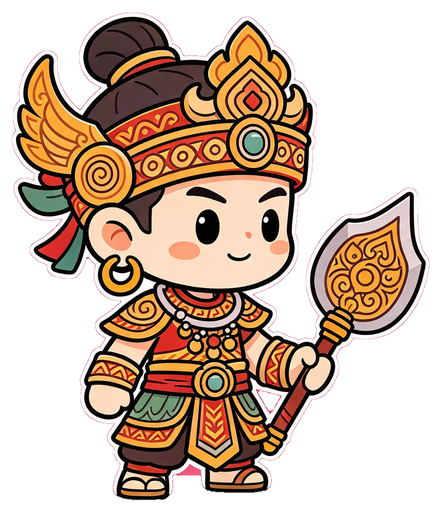
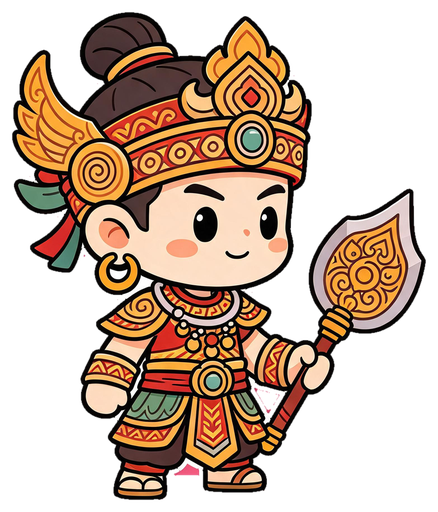
Sửa theo tester: CD_SKIP (ảnh vẽ sai giữ hiển thị cũ), boss cao chuẩn, nhún lấy đà / tung chiêu nhún–bật, vệt đúng phía vũ khí, không cắt ở mép, kinhduong bóc viền trắng
Claude-Session: https://claude.ai/code/session_01UBDPYrUsnZ3fMaqEMhVJ5V

Changed region(s): [[0.0297, 0.0, 0.9795, 0.9688]]

diff --git a/js/tu-cu-dong.js b/js/tu-cu-dong.js
@@ -33,6 +33,12 @@ function cdWeapon(type, attack) {
   return attack === 'arrow' ? 'shot' : attack === 'melee' ? 'slash' : attack ? 'orb' : 'punch';
 }
 
+// ảnh dựng xương VẼ SAI (sai loài / vũ khí rời / lệch phong cách) — chờ gen lại; mã trong đây giữ nguyên cách hiển thị cũ của game
+const CD_SKIP = new Set([
+  'rua', 'phuthuy', 'chimbao', 'nongnoc', 'ran', 'thachtinh', 'dacon', 'linhan', 'cungan', 'voichien', 'camap', 'cua', 'cao',   // quái sai loài (thành rồng con / người có sừng)
+  'hotinh', 'chantinh',                                                                                                        // boss sai loài
+  'nguphu', 'tre', 'dotnuong',                                                                                                 // tướng: tiên cá · vũ khí rời · kiểu 3D bóng
+]);
 // ---- chọn ảnh đơn
 const cdMultiCache = new Map();
 function cdHasMulti(type, enemy) {
@@ -46,6 +52,7 @@ function cdHasMulti(type, enemy) {
 }
 // ảnh đơn của một mã (null = dùng đường vẽ cũ: bộ nhiều khung / ảnh cũ / vector)
 function cdSoloImg(type, enemy) {
+  if (CD_SKIP.has(type)) return null;
   // ảnh dựng xương <mã>.png ở gốc assets/ là ảnh mới vẽ theo docs/PROMPT-DUNG-XUONG.txt → dùng thay bộ cũ;
   // chỉ có packs/<mã>/idle.png thì bộ nhiều khung (nếu có) vẫn ưu tiên
   // bộ nhiều khung thật (PACK_FRAMES / FRAME_ANIMS, tools/cat-sheet.py) vẫn ưu tiên nhất
@@ -100,7 +107,9 @@ function cdPrepare(img) {
   c.naturalWidth = c.width; c.naturalHeight = c.height;
   const fx = Math.min(0.85, Math.max(0.15, (fk * (x1 - x0) / k + (x0 / k - sx)) / sw));
   c.__fk = fx;   // footK() của render.js đọc giá trị này
-  p = { c, ar: c.width / c.height, fx, tint: new Map(), geo: { sx, sy, sw, sh, iw, ih, q: c.width / sw } };
+  // phía cầm vũ khí: chân lệch hẳn sang phải khung bao = phần chìa ra nhiều ở bên TRÁI (vũ khí cầm tay trái) → vệt / đạn vẽ bên trái
+  const wside = fx > 0.58 ? -1 : 1;
+  p = { c, ar: c.width / c.height, fx, wside, tint: new Map(), geo: { sx, sy, sw, sh, iw, ih, q: c.width / sw } };
   cdPrep.set(img, p);
   return p;
 }
@@ -144,25 +153,30 @@ function cdPose(st) {
     const u = 1 - st.swing;
     if (u < 0.3) {                // lấy đà: ngả về sau, nén xuống
       const k = cdOut(u / 0.3);
-      P.dx -= 0.05 * k * big; P.bend -= 0.13 * k; P.sx *= 1 - 0.04 * k; P.sy *= 1 + 0.05 * k; P.rot -= 0.04 * k;
+      // nhún lấy đà (~0,1 giây): ngả ra sau, nén thấp xuống, phình ngang
+      P.dx -= 0.05 * k * big; P.bend -= 0.14 * k; P.sx *= 1 + 0.05 * k; P.sy *= 1 - 0.09 * k; P.rot -= 0.05 * k;
       P.phase = 'wind'; P.k = k;
     } else if (u < 0.46) {        // lao tới + uốn phần trên theo hướng đánh, giãn ngang
       const k = cdOut((u - 0.3) / 0.16);
-      P.dx += (-0.05 + 0.11 * k) * big; P.bend += -0.13 + (0.13 + 0.24 * big) * k; P.sx *= 1 + 0.08 * k * big; P.sy *= 1 - 0.06 * k * big;
-      P.rot += (-0.04 + 0.1 * k) * big;
+      P.dx += (-0.05 + 0.15 * k) * big; P.bend += -0.14 + (0.14 + 0.32 * big) * k; P.sx *= 1 + 0.05 * (1 - k) + 0.06 * k * big; P.sy *= 1 - 0.09 * (1 - k) + 0.05 * k;
+      P.rot += (-0.05 + 0.13 * k) * big;
       if (!st.melee) P.dx -= 0.05 * k;   // đánh xa: giật lùi khi bắn
       P.phase = 'strike'; P.k = k;
     } else {                      // bật về (vượt nhẹ rồi đứng yên)
       const k = cdBack((u - 0.46) / 0.54);
       const r = 1 - k;
-      P.dx += (0.06 * big - (st.melee ? 0 : 0.05)) * r; P.bend += 0.24 * big * r; P.sx *= 1 + 0.08 * big * r; P.sy *= 1 - 0.06 * big * r; P.rot += 0.06 * big * r;
+      P.dx += (0.1 * big - (st.melee ? 0 : 0.05)) * r; P.bend += 0.32 * big * r; P.sx *= 1 + 0.06 * big * r; P.sy *= 1 + 0.05 * r; P.rot += 0.08 * big * r;
       P.phase = 'recover'; P.k = Math.min(1, Math.max(0, (u - 0.46) / 0.54));
     }
   }
-  if (st.castT > 0) {             // tung chiêu: nhún lên, phóng to nhẹ, phát sáng viền
-    const k = cdInOut(Math.min(1, st.castT / 0.3));
-    P.dy -= 0.07 * k; P.sx *= 1 + (st.castUlt ? 0.12 : 0.06) * k; P.sy *= 1 + (st.castUlt ? 0.14 : 0.08) * k; P.bend -= 0.05 * k;
-    P.glow = k; if (!P.phase) { P.phase = 'cast'; P.k = k; }
+  if (st.castT > 0) {             // tung chiêu (castT 0,5 → 0; tối thượng 0,9): nhún xuống → bật lên + ngửa thân trên ra sau, phát sáng viền
+    // nhún: 0,5 → 0,38 hạ dần xuống (tối thượng: giữ thế nhún tới 0,3) · bật: từ 0,3 về 0 bung lên rồi hạ dần
+    const crouch = st.castT > 0.3 ? cdOut(Math.min(1, (0.5 - Math.min(0.5, st.castT)) / 0.12 + (st.castT > 0.5 ? 1 : 0))) : 0;
+    const k = st.castT <= 0.3 ? cdInOut(st.castT / 0.3) : 0;
+    P.sy *= 1 - 0.1 * crouch + (st.castUlt ? 0.13 : 0.09) * k; P.sx *= 1 + 0.05 * crouch + (st.castUlt ? 0.08 : 0.04) * k;
+    P.dy -= 0.08 * k; P.bend -= 0.04 * crouch + 0.12 * k;
+    P.glow = Math.max(0.35, k); P.cast = { crouch, k };
+    if (!P.phase) { P.phase = 'cast'; P.k = k; }
   }
   if (st.hurt > 0) {              // trúng đòn: chớp + giật lùi + rung
     const k = Math.min(1, st.hurt / 0.2);
@@ -297,6 +311,12 @@ function cdFx(ctx, kind, P, H, col, t, seed, fr) {
     if (tex) fxImage(ctx, 'spark_01', col, sx, sy, 0.16 * H, seed, 1, (1 - q) * 0.8);
   }
   ctx.restore();
+}
+// vệt / đạn ở đúng phía tay cầm vũ khí (ảnh không tách được tay): bên trái thì lật ngang
+function cdFxSide(ctx, p, kind, P, H, col, t, seed) {
+  const w = H * p.ar;
+  if (p.wside < 0) { ctx.save(); ctx.scale(-1, 1); cdFx(ctx, kind, P, H, col, t, seed, p.fx * w); ctx.restore(); }
+  else cdFx(ctx, kind, P, H, col, t, seed, (1 - p.fx) * w);
 }
 // bụi chân khi đi: 2 cụm khói nhỏ sau gót, theo nhịp bước (không cần trạng thái)
 function cdDust(ctx, H, t, rate, seed) {
@@ -500,7 +520,7 @@ function cdArmTip(R, st, kind, bend, sy) {
   const c = Math.cos(ang), s = Math.sin(ang);
   return { pv, ang, d: A.d, tip: [pv[0] + (vx * k) * c - (vy * k) * s, pv[1] + (vx * k) * s + (vy * k) * c] };
 }
-const cdRigBend = (P) => (P.bend + P.dx + P.rot * 0.9) * 0.6;
+const cdRigBend = (P) => (P.bend + P.dx + P.rot * 0.9) * 0.75;
 const cdTintC = (c, color) => { const m = c.__tint || (c.__tint = new Map()); let t = m.get(color); if (!t) { t = document.createElement('canvas'); t.width = c.width; t.height = c.height; const x = t.getContext('2d'); x.drawImage(c, 0, 0); x.globalCompositeOperation = 'source-atop'; x.fillStyle = color; x.fillRect(0, 0, t.width, t.height); t.naturalWidth = t.width; t.naturalHeight = t.height; m.set(color, t); } return t; };
 // vẽ thân trên theo lát ngang: lát dưới hông giữ nguyên, càng lên cao càng lệch (cong mềm, không gãy ở hông)
 function cdDrawUpper(ctx, R, img, bend, sy) {
@@ -632,6 +652,17 @@ function cdDrawHero(ctx, h, x, y, o, s, look, def, img, tierShown, ascShown) {
   ctx.save();
   ctx.globalAlpha *= (o.alpha ?? 1) * P.alpha;
   ctx.translate(x, y);
+  {
+    // ô sát mép bản đồ + ảnh mới rộng (vũ khí chìa ngang): đẩy hình vào trong để không bị cắt nửa người ở mép màn hình
+    const tr = ctx.getTransform(), kx = Math.abs(tr.a), w = H * p.ar * s;
+    if (kx > 0 && ctx.canvas && ctx.canvas.width) {
+      const L = (dir > 0 ? p.fx : 1 - p.fx) * w * kx, Rr = (dir > 0 ? 1 - p.fx : p.fx) * w * kx, pad = 3;
+      let dx = 0;
+      if (tr.e - L < pad) dx = (pad - (tr.e - L)) / kx;
+      else if (tr.e + Rr > ctx.canvas.width - pad) dx = (ctx.canvas.width - pad - (tr.e + Rr)) / kx;
+      if (dx) ctx.translate(dx, 0);
+    }
+  }
   if (!o.noShadow) {
     // bóng co lại khi nhún lên / nhảy
     const up = Math.min(1, Math.max(0, -((R ? P.hop || 0 : P.dy) * H + lift) / 40));
@@ -664,7 +695,7 @@ function cdDrawHero(ctx, h, x, y, o, s, look, def, img, tierShown, ascShown) {
     ctx.restore();
     if (!dying) drawPackFront(ctx, h, def, t, H, ascShown);
     // không tách được tay: vệt chém / đạn / quả cầu vẽ theo vị trí tay ước lượng như khi cử động nguyên khối
-    if (!R.arm && !dying && !CD.noFx) cdFx(ctx, kind, P, H, look.attrColor || '#FFF1C4', t, seed, (1 - p.fx) * H * p.ar);
+    if (!R.arm && !dying && !CD.noFx) cdFxSide(ctx, p, kind, P, H, look.attrColor || '#FFF1C4', t, seed);
     ctx.restore();
     if (o.bog) drawBogWater(ctx, x, y, s, t);
     return { top: y - (H + 12 - lift) * s * Math.max(1, P.sy), s };
@@ -687,7 +718,7 @@ function cdDrawHero(ctx, h, x, y, o, s, look, def, img, tierShown, ascShown) {
   }
   ctx.restore();
   if (!dying) drawPackFront(ctx, h, def, t, H, ascShown);
-  if (!dying) cdFx(ctx, kind, P, H, look.attrColor || '#FFF1C4', t, seed, (1 - p.fx) * H * p.ar);
+  if (!dying) cdFxSide(ctx, p, kind, P, H, look.attrColor || '#FFF1C4', t, seed);
   ctx.restore();
   if (o.bog) drawBogWater(ctx, x, y, s, t);
   return { top: y - (H + 12 - lift) * s * Math.max(1, P.sy), s };
@@ -695,7 +726,9 @@ function cdDrawHero(ctx, h, x, y, o, s, look, def, img, tierShown, ascShown) {
 
 // ---- QUÁI / BOSS (gọi từ drawEnemy; ctx đã dịch tới chân, lật theo hướng, rung khi trúng đòn)
 function cdEnemySize(e, box, p) {
-  const hgt = box.w * Math.min(1.7, Math.max(0.6, 1 / p.ar)) * (e.def.boss ? 1.05 : 1);
+  let hgt = box.w * Math.min(1.7, Math.max(0.6, 1 / p.ar));
+  // boss: cao chuẩn 100–125 (≈ cỡ ảnh boss cũ, gấp ~2 quái thường) — boss thiếu ENEMY_W (rộng mặc định 40) không còn bé như quái thường
+  if (e.def.boss) hgt = Math.min(125, Math.max(100, hgt)) * (box.k || 1);
   return { H: hgt, W: hgt * p.ar };
 }
 function cdDrawEnemy(ctx, e, t, box, img, o) {
@@ -737,7 +770,7 @@ function cdDrawEnemy(ctx, e, t, box, img, o) {
   if (!o.icon && P.phase) {
     const el = e.el && typeof ELEMENTS !== 'undefined' && ELEMENTS[e.el];
     ctx.save(); ctx.translate(0, fly);
-    cdFx(ctx, cdWeapon(e.type, d.ranged ? 'arrow' : 'melee'), P, H, (el && el.color) || '#FFB04A', t, seed, (1 - p.fx) * H * p.ar);
+    cdFxSide(ctx, p, cdWeapon(e.type, d.ranged ? 'arrow' : 'melee'), P, H, (el && el.color) || '#FFB04A', t, seed);
     ctx.restore();
   }
   return true;

diff --git a/tests/tu-cu-dong/tu-cu-dong.test.js b/tests/tu-cu-dong/tu-cu-dong.test.js
@@ -9,7 +9,7 @@ const SHOTS = path.join(__dirname, 'shots');
 fs.mkdirSync(SHOTS, { recursive: true });
 const sleep = (ms) => new Promise((r) => setTimeout(r, ms));
 const SIZES = [[1920, 934], [844, 390], [667, 375]];
-const MA = 'lactuong,xathu,thosan,thaymo,lucsi,kinhduong,kybinh,cao,anvuong';
+const MA = 'lactuong,xathu,thosan,thaymo,lucsi,kinhduong,kybinh,echme,anvuong';
 
 async function open(browser, w, h, q = '') {
   const ctx = await browser.newContext({ viewport: { width: w, height: h } });
@@ -60,6 +60,26 @@ async function main() {
     ok(s.path[0] === 'ma-moi.png', '<mã>.png ở gốc assets/ được nhận làm ảnh đơn');
     const dx = await page.evaluate(() => ({ adv: hasAsset('adv.png') && hasAsset('packs/adv/strike.png'), solo: hasAsset('adv.png') && !cdHasMulti('adv', false) === false }));
     ok(dx.adv && dx.solo, 'có ảnh dựng xương adv.png thì dùng thay bộ cũ packs/adv (wind / strike)');
+    // tester t6: ảnh vẽ sai → danh sách loại trừ giữ cách hiển thị cũ; boss to; vệt đúng phía vũ khí; không cắt ở mép
+    const t6 = await page.evaluate(async () => {
+      const skip = [...CD_SKIP].filter((k) => hasAsset(k + '.png') && cdSoloImg(k, !HEROES[k]));
+      const load = async (k) => { const im = new Image(); im.src = 'assets/' + k + '.png'; await im.decode(); return cdPrepare(im); };
+      const lac = await load('lactuong'), kd = await load('kinhduong');
+      const boss = cdEnemySize({ def: { boss: true } }, { w: 40 }, await load('haba')).H, boss2 = cdEnemySize({ def: { boss: true } }, { w: 140 }, await load('thuongluong')).H;
+      const quai = cdEnemySize({ def: {} }, { w: 40 }, await load('tom')).H;
+      // tướng ở ô sát mép trái: không vẽ ra ngoài canvas
+      const c = document.createElement('canvas'); c.width = 300; c.height = 300; const x = c.getContext('2d', { willReadFrequently: true });
+      CD.force = true; asset('lactuong.png', true); await new Promise((r) => setTimeout(r, 300));
+      drawHeroSprite(x, { type: 'lactuong', id: 1, tier: 3, equip: {} }, 6, 280, { t: 1, scale: 0.9, noShadow: true });
+      const d = x.getImageData(0, 0, 1, 300).data; let edge = 0; for (let i = 3; i < d.length; i += 4) if (d[i] > 40) edge++;
+      const cast = [0.5, 0.42, 0.32, 0.25, 0.1].map((ct) => +cdPose({ t: 0, seed: 0, castT: ct }).sy.toFixed(3));
+      return { skip, lacSide: lac.wside, kdSide: kd.wside, boss, boss2, quai, edge, cast };
+    });
+    ok(t6.skip.length === 0, 'mã trong CD_SKIP (ảnh vẽ sai, chờ gen lại) không dùng ảnh mới — giữ hiển thị cũ');
+    ok(t6.lacSide === -1 && t6.kdSide === 1, 'phía vũ khí: Lạc Tướng cầm rìu bên trái → vệt bên trái; Kinh Dương Vương bên phải');
+    ok(t6.boss >= 100 && t6.boss2 <= 125 && t6.boss > t6.quai * 1.6, `boss cao ${Math.round(t6.boss)}–${Math.round(t6.boss2)} (quái thường ${Math.round(t6.quai)}) — không bé như quái`);
+    ok(t6.edge === 0, `tướng ở ô sát mép trái không bị vẽ lẹm ra ngoài canvas (${t6.edge} điểm ở cột 0)`);
+    ok(t6.cast[1] < 0.95 && t6.cast[3] > 1.05, `tung chiêu nhún xuống rồi bật lên (cao ${t6.cast.join(' → ')})`);
     await page.close();
   }
 
@@ -122,7 +142,7 @@ async function main() {
   {
     const page = await open(browser, 844, 390);
     // chỉ ảnh dựng xương mới (assets/<mã>.png) + mẫu docs/mau-vung-tay — không dùng ảnh cũ packs/
-    const SAMPLES = [['mau-nv', 'docs/mau-vung-tay/mau-nv.png'], ['kinhduong', 'assets/kinhduong.png'], ['cuoi', 'assets/cuoi.png'], ['xathu', 'assets/xathu.png'],
+    const SAMPLES = [['mau-nv', 'docs/mau-vung-tay/mau-nv.png'], ['potaoapui', 'assets/potaoapui.png'], ['cuoi', 'assets/cuoi.png'], ['xathu', 'assets/xathu.png'],
       ['auco', 'assets/auco.png'], ['sodua', 'assets/sodua.png'], ['giaodong', 'assets/giaodong.png']];
     const res = await page.evaluate(async (SAMPLES) => {
       const out = [], frames = [];

diff --git a/js/xem-cu-dong.js b/js/xem-cu-dong.js
@@ -15,11 +15,11 @@
   const cells = [];
   let id = 1;
   for (const k of Object.keys(HEROES)) {
-    if (!pick(k) || !hasAsset(`${k}.png`)) continue;   // chỉ ảnh dựng xương mới (assets/<mã>.png), không dùng ảnh cũ packs/
+    if (!pick(k) || !hasAsset(`${k}.png`) || CD_SKIP.has(k)) continue;   // chỉ ảnh dựng xương mới (assets/<mã>.png) đạt; mã trong CD_SKIP chờ gen lại
     cells.push({ kind: 'hero', type: k, name: HEROES[k].name, h: { type: k, id: id++, tier: 1, equip: {}, level: 1 } });
   }
   for (const k of Object.keys(ENEMIES)) {
-    if (!pick(k) || !hasAsset(`${k}.png`)) continue;
+    if (!pick(k) || !hasAsset(`${k}.png`) || CD_SKIP.has(k)) continue;
     const d = ENEMIES[k];
     cells.push({ kind: d.boss ? 'boss' : 'enemy', type: k, name: d.name, e: { type: k, id: id++, def: d, x: 0, y: 0, dir: 1, hp: d.hp, maxHp: d.hp, el: d.el || null } });
   }

diff --git a/tools/rig-tay.html b/tools/rig-tay.html
@@ -51,7 +51,7 @@
 const $ = (s) => document.querySelector(s);
 const ed = $('#ed'), pv = $('#pv'), ex = ed.getContext('2d'), px = pv.getContext('2d');
 // chỉ ảnh dựng xương mới (assets/<mã>.png) — không dùng ảnh cũ packs/
-const LIST = (window.ASSET_LIST || []).flatMap((f) => { const m = /^([\w-]+)\.png$/.exec(f); return m && CD_WEAPON[m[1]] ? [[m[1], '../assets/' + f]] : []; });
+const LIST = (window.ASSET_LIST || []).flatMap((f) => { const m = /^([\w-]+)\.png$/.exec(f); return m && CD_WEAPON[m[1]] && !CD_SKIP.has(m[1]) ? [[m[1], '../assets/' + f]] : []; });   // bỏ mã chờ gen lại (CD_SKIP)
 LIST.unshift(['mau-nv', '../docs/mau-vung-tay/mau-nv.png']);
 $('#ma').innerHTML = LIST.map(([k, f]) => `<option value="${f}">${k}</option>`).join('');
 let code = '', img = null, prep = null, man = {}, rig = null, mode = '', drag = null, sc = 1;

diff --git a/tools/tach-nen-dung-xuong.py b/tools/tach-nen-dung-xuong.py
@@ -1,6 +1,6 @@
 """Tách nền hồng / magenta cho ảnh DỰNG XƯƠNG (docs/PROMPT-DUNG-XUONG.txt) → assets/<mã>.png nền trong suốt.
 
-Cách chạy:  python3 tools/tach-nen-dung-xuong.py <file .zip | thư mục ảnh> [assets] [--xem anh-xem.png]
+Cách chạy:  python3 tools/tach-nen-dung-xuong.py <file .zip | thư mục ảnh> [assets] [--xem anh-xem.png] [--boc-vien-trang kinhduong,...]
 Cần: pip install pillow numpy scipy
 - Tên ảnh = mã nhân vật (thoren.png, trieuda.png…) — ảnh có tên lạ vẫn tách nhưng in cảnh báo.
 - Nền: vùng màu hồng / tím (đỏ và lam cao hơn lục) nối với mép ảnh, kể cả bóng đổ hồng sẫm dưới chân;
@@ -45,7 +45,7 @@ def bg_model(a):
     return model
 
 
-def cut(img):
+def cut(img, peel_white=False):
     a = np.asarray(img.convert('RGB')).astype(np.int32)
     model = bg_model(a)
     af = a.astype(np.float64)
@@ -89,6 +89,15 @@ def cut(img):
         s2 = ndimage.sum(fg, lab2, index=np.arange(1, n2 + 1))
         keep = np.isin(lab2, [i + 1 for i, s in enumerate(s2) if s >= s2.max() * 0.004])
         fg &= keep
+    if peel_white:
+        # bóc viền trắng kiểu sticker (vd kinhduong): gọt dần các điểm trắng / xám nhạt nằm ở mép ngoài, tối đa ~1,5% cạnh ảnh
+        white = (a.min(2) > 200) & (a.max(2) - a.min(2) < 45)
+        for _ in range(max(4, int(max(a.shape[:2]) * 0.015))):
+            edge = fg & ~ndimage.binary_erosion(fg)
+            rm = edge & white
+            if not rm.any():
+                break
+            fg &= ~rm
     alpha = Image.fromarray((fg * 255).astype(np.uint8)).filter(ImageFilter.GaussianBlur(0.7))
     al = np.asarray(alpha).astype(np.int32)
     al[~fg] = np.minimum(al[~fg], 140)
@@ -131,13 +140,16 @@ def main():
         sys.exit(1)
     src, dst = args[0], (args[1] if len(args) > 1 else 'assets')
     xem = sys.argv[sys.argv.index('--xem') + 1] if '--xem' in sys.argv else None
+    # --boc-vien-trang ma1,ma2: bóc viền trắng sticker cho các mã này
+    peel = set(sys.argv[sys.argv.index('--boc-vien-trang') + 1].split(',')) if '--boc-vien-trang' in sys.argv else set()
+    args = [x for x in args if x not in (xem,) and not (peel and x == ','.join(sorted(peel)))]
     codes = known_codes()
     done = []
     for name, img in inputs(src):
         code = os.path.splitext(name)[0]
         if codes and code not in codes:
             print('  ! tên lạ (không có trong docs/PROMPT-DUNG-XUONG.txt):', name)
-        out = cut(img)
+        out = cut(img, peel_white=code in peel)
         if out is None:
             print('  ✗ không tìm thấy nền hồng:', name)
             continue
